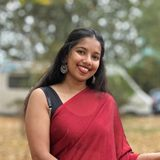
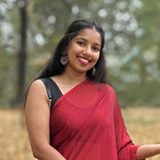
updated optimized images

diff --git a/projects/unified-assistive-communication-system/contributors/index.html b/projects/unified-assistive-communication-system/contributors/index.html
@@ -24,8 +24,8 @@
     <!-- GENERATED CONTRIBUTOR PRELOADS START -->
     <link rel="preload" as="image" href="/projects/shared/assets/images/contributors/inline/anagha-s.jpg?v=16wmlbr" imagesrcset="/projects/shared/assets/images/contributors/inline/anagha-s.jpg?v=16wmlbr" fetchpriority="high" />
     <link rel="preload" as="image" href="/projects/shared/assets/images/contributors/inline/ameer-ts.jpg?v=6yvdtn" imagesrcset="/projects/shared/assets/images/contributors/inline/ameer-ts.jpg?v=6yvdtn" fetchpriority="high" />
-    <link rel="preload" as="image" href="/projects/shared/assets/images/contributors/inline/ananya-ajith.jpg?v=g3amiv" imagesrcset="/projects/shared/assets/images/contributors/inline/ananya-ajith.jpg?v=g3amiv" fetchpriority="high" />
-    <link rel="preload" as="image" href="/projects/shared/assets/images/contributors/inline/sahal-mh.jpg?v=1htgpf8" imagesrcset="/projects/shared/assets/images/contributors/inline/sahal-mh.jpg?v=1htgpf8" fetchpriority="high" />
+    <link rel="preload" as="image" href="/projects/shared/assets/images/contributors/inline/ananya-ajith.jpg?v=1csl9zc" imagesrcset="/projects/shared/assets/images/contributors/inline/ananya-ajith.jpg?v=1csl9zc" fetchpriority="high" />
+    <link rel="preload" as="image" href="/projects/shared/assets/images/contributors/inline/sahal-mh.jpg?v=1g4ohll" imagesrcset="/projects/shared/assets/images/contributors/inline/sahal-mh.jpg?v=1g4ohll" fetchpriority="high" />
     <link rel="preload" as="image" href="/projects/shared/assets/images/contributors/inline/anand-ps.jpg?v=1b4bvdm" imagesrcset="/projects/shared/assets/images/contributors/inline/anand-ps.jpg?v=1b4bvdm" fetchpriority="high" />
     <link rel="preload" as="image" href="/projects/shared/assets/images/contributors/inline/sidharth-s.jpg?v=1sc9tab" imagesrcset="/projects/shared/assets/images/contributors/inline/sidharth-s.jpg?v=1sc9tab" fetchpriority="high" />
     <!-- GENERATED CONTRIBUTOR PRELOADS END -->
@@ -99,7 +99,7 @@
                 <div class="contributor-profile-top">
                     <a class="contributor-profile-primary-link" href="/contributors/ananya-ajith/" aria-label="View profile for Ananya Ajith Kallungal">
                         <div class="contributor-profile-media">
-                            <img class="contributor-profile-photo" src="/projects/shared/assets/images/contributors/ananya-ajith.jpeg" alt="Ananya Ajith Kallungal portrait" width="160" height="160" loading="eager" fetchpriority="high" decoding="async" style="object-fit: cover; object-position: 50% 53%; --contributor-profile-photo-zoom: 2.5; --contributor-profile-photo-focus-x: 50%; --contributor-profile-photo-focus-y: 53%;" />
+                            <img class="contributor-profile-photo" src="/projects/shared/assets/images/contributors/ananya-ajith.jpeg" alt="Ananya Ajith Kallungal portrait" width="160" height="160" loading="eager" fetchpriority="high" decoding="async" style="object-fit: cover; object-position: 41% 49%; --contributor-profile-photo-zoom: 2.1; --contributor-profile-photo-focus-x: 41%; --contributor-profile-photo-focus-y: 49%;" />
                         </div>
                     </a>
                     <div class="contributor-profile-identity">
@@ -118,7 +118,7 @@
                 <div class="contributor-profile-top">
                     <a class="contributor-profile-primary-link" href="/contributors/sahal-mh/" aria-label="View profile for Muhammed Sahal M H">
                         <div class="contributor-profile-media">
-                            <img class="contributor-profile-photo" src="/projects/shared/assets/images/contributors/sahal-mh.jpg" alt="Muhammed Sahal M H portrait" width="160" height="160" loading="eager" fetchpriority="high" decoding="async" style="object-fit: cover; object-position: 45% 37%; --contributor-profile-photo-zoom: 2.5; --contributor-profile-photo-focus-x: 45%; --contributor-profile-photo-focus-y: 37%;" />
+                            <img class="contributor-profile-photo" src="/projects/shared/assets/images/contributors/sahal-mh.jpeg" alt="Muhammed Sahal M H portrait" width="160" height="160" loading="eager" fetchpriority="high" decoding="async" style="object-fit: cover; object-position: 45% 37%; --contributor-profile-photo-zoom: 2.5; --contributor-profile-photo-focus-x: 45%; --contributor-profile-photo-focus-y: 37%;" />
                         </div>
                     </a>
                     <div class="contributor-profile-identity">

diff --git a/projects/unified-assistive-communication-system/index.html b/projects/unified-assistive-communication-system/index.html
@@ -28,8 +28,8 @@
     <!-- GENERATED CONTRIBUTOR PRELOADS START -->
     <link rel="preload" as="image" href="/projects/shared/assets/images/contributors/inline/anagha-s.jpg?v=16wmlbr" imagesrcset="/projects/shared/assets/images/contributors/inline/anagha-s.jpg?v=16wmlbr" fetchpriority="high" />
     <link rel="preload" as="image" href="/projects/shared/assets/images/contributors/inline/ameer-ts.jpg?v=6yvdtn" imagesrcset="/projects/shared/assets/images/contributors/inline/ameer-ts.jpg?v=6yvdtn" fetchpriority="high" />
-    <link rel="preload" as="image" href="/projects/shared/assets/images/contributors/inline/ananya-ajith.jpg?v=g3amiv" imagesrcset="/projects/shared/assets/images/contributors/inline/ananya-ajith.jpg?v=g3amiv" fetchpriority="high" />
-    <link rel="preload" as="image" href="/projects/shared/assets/images/contributors/inline/sahal-mh.jpg?v=1htgpf8" imagesrcset="/projects/shared/assets/images/contributors/inline/sahal-mh.jpg?v=1htgpf8" fetchpriority="high" />
+    <link rel="preload" as="image" href="/projects/shared/assets/images/contributors/inline/ananya-ajith.jpg?v=1csl9zc" imagesrcset="/projects/shared/assets/images/contributors/inline/ananya-ajith.jpg?v=1csl9zc" fetchpriority="high" />
+    <link rel="preload" as="image" href="/projects/shared/assets/images/contributors/inline/sahal-mh.jpg?v=1g4ohll" imagesrcset="/projects/shared/assets/images/contributors/inline/sahal-mh.jpg?v=1g4ohll" fetchpriority="high" />
     <link rel="preload" as="image" href="/projects/shared/assets/images/contributors/inline/anand-ps.jpg?v=1b4bvdm" imagesrcset="/projects/shared/assets/images/contributors/inline/anand-ps.jpg?v=1b4bvdm" fetchpriority="high" />
     <link rel="preload" as="image" href="/projects/shared/assets/images/contributors/inline/sidharth-s.jpg?v=1sc9tab" imagesrcset="/projects/shared/assets/images/contributors/inline/sidharth-s.jpg?v=1sc9tab" fetchpriority="high" />
     <!-- GENERATED CONTRIBUTOR PRELOADS END -->
@@ -159,7 +159,7 @@
             </a>
             <a class="contributors-inline-link" href="/projects/unified-assistive-communication-system/contributors/?member=ananya-ajith" aria-label="View Ananya Ajith Kallungal and project contributors" style="--contributor-enter-delay: calc(2 * var(--contributors-inline-reveal-stagger-ms)); --contributor-stack-index: 3; --contributor-z-index: 4;">
                 <span class="contributors-inline-link-media">
-                    <img class="contributors-inline-photo" src="/projects/shared/assets/images/contributors/inline/ananya-ajith.jpg?v=g3amiv" alt="" aria-hidden="true" width="160" height="160" loading="eager" fetchpriority="high" decoding="async" />
+                    <img class="contributors-inline-photo" src="/projects/shared/assets/images/contributors/inline/ananya-ajith.jpg?v=1csl9zc" alt="" aria-hidden="true" width="160" height="160" loading="eager" fetchpriority="high" decoding="async" />
                 </span>
                 <span class="contributors-inline-tooltip" aria-hidden="true">
                     <span class="contributors-inline-tooltip-name">Ananya Ajith Kallungal</span>
@@ -168,7 +168,7 @@
             </a>
             <a class="contributors-inline-link" href="/projects/unified-assistive-communication-system/contributors/?member=sahal-mh" aria-label="View Muhammed Sahal M H and project contributors" style="--contributor-enter-delay: calc(3 * var(--contributors-inline-reveal-stagger-ms)); --contributor-stack-index: 2; --contributor-z-index: 3;">
                 <span class="contributors-inline-link-media">
-                    <img class="contributors-inline-photo" src="/projects/shared/assets/images/contributors/inline/sahal-mh.jpg?v=1htgpf8" alt="" aria-hidden="true" width="160" height="160" loading="eager" fetchpriority="high" decoding="async" />
+                    <img class="contributors-inline-photo" src="/projects/shared/assets/images/contributors/inline/sahal-mh.jpg?v=1g4ohll" alt="" aria-hidden="true" width="160" height="160" loading="eager" fetchpriority="high" decoding="async" />
                 </span>
                 <span class="contributors-inline-tooltip" aria-hidden="true">
                     <span class="contributors-inline-tooltip-name">Muhammed Sahal M H</span>

diff --git a/contributors/sahal-mh/index.html b/contributors/sahal-mh/index.html
@@ -12,12 +12,12 @@
     <meta property="og:url" content="https://anandps.in/contributors/sahal-mh/" />
     <meta property="og:title" content="Muhammed Sahal M H | Hardware Developer | Anand P S" />
     <meta property="og:description" content="Electrical Engineer with maintenance experience across the manufacturing industry, along with experience in control panel assembly, diagnostics, and substation operations. Proven ability to resolve faults, and ensure reliable electrical system performance. Explore contributed projects, profile links, and portfolio context for Muhammed Sahal M H." />
-    <meta property="og:image" content="https://anandps.in/projects/shared/assets/images/contributors/sahal-mh.jpg" />
+    <meta property="og:image" content="https://anandps.in/projects/shared/assets/images/contributors/sahal-mh.jpeg" />
     <meta property="og:image:alt" content="Muhammed Sahal M H portrait" />
     <meta name="twitter:card" content="summary_large_image" />
     <meta name="twitter:title" content="Muhammed Sahal M H | Hardware Developer | Anand P S" />
     <meta name="twitter:description" content="Electrical Engineer with maintenance experience across the manufacturing industry, along with experience in control panel assembly, diagnostics, and substation operations. Proven ability to resolve faults, and ensure reliable electrical system performance. Explore contributed projects, profile links, and portfolio context for Muhammed Sahal M H." />
-    <meta name="twitter:image" content="https://anandps.in/projects/shared/assets/images/contributors/sahal-mh.jpg" />
+    <meta name="twitter:image" content="https://anandps.in/projects/shared/assets/images/contributors/sahal-mh.jpeg" />
     <meta name="twitter:image:alt" content="Muhammed Sahal M H portrait" />
     <link rel="preconnect" href="https://fonts.googleapis.com" />
     <link rel="preconnect" href="https://fonts.gstatic.com" crossorigin />
@@ -49,7 +49,7 @@
     <div class="contributor-profile-layout">
         <aside class="contributor-profile-visual">
             <div class="contributor-profile-media">
-                <img class="contributor-profile-photo" src="/projects/shared/assets/images/contributors/sahal-mh.jpg" alt="Muhammed Sahal M H portrait" width="220" height="220" loading="eager" fetchpriority="high" decoding="async" style="object-fit: cover; object-position: 45% 37%; --contributor-profile-photo-zoom: 2.5; --contributor-profile-photo-focus-x: 45%; --contributor-profile-photo-focus-y: 37%;" />
+                <img class="contributor-profile-photo" src="/projects/shared/assets/images/contributors/sahal-mh.jpeg" alt="Muhammed Sahal M H portrait" width="220" height="220" loading="eager" fetchpriority="high" decoding="async" style="object-fit: cover; object-position: 45% 37%; --contributor-profile-photo-zoom: 2.5; --contributor-profile-photo-focus-x: 45%; --contributor-profile-photo-focus-y: 37%;" />
             </div>
         </aside>
         <div class="contributor-profile-summary">
@@ -139,7 +139,7 @@ document.addEventListener('click', async (event) => {
   "jobTitle": "Hardware Developer",
   "description": "Electrical Engineer with maintenance experience across the manufacturing industry, along with experience in control panel assembly, diagnostics, and substation operations. Proven ability to resolve faults, and ensure reliable electrical system performance.",
   "url": "https://anandps.in/contributors/sahal-mh/",
-  "image": "https://anandps.in/projects/shared/assets/images/contributors/sahal-mh.jpg",
+  "image": "https://anandps.in/projects/shared/assets/images/contributors/sahal-mh.jpeg",
   "sameAs": [
     "https://www.linkedin.com/in/muhammed-sahal-m-h-391256194",
     "https://github.com/muhammed-sahal-m-h"

diff --git a/contributors/ananya-ajith/index.html b/contributors/ananya-ajith/index.html
@@ -49,7 +49,7 @@
     <div class="contributor-profile-layout">
         <aside class="contributor-profile-visual">
             <div class="contributor-profile-media">
-                <img class="contributor-profile-photo" src="/projects/shared/assets/images/contributors/ananya-ajith.jpeg" alt="Ananya Ajith Kallungal portrait" width="220" height="220" loading="eager" fetchpriority="high" decoding="async" style="object-fit: cover; object-position: 50% 53%; --contributor-profile-photo-zoom: 2.5; --contributor-profile-photo-focus-x: 50%; --contributor-profile-photo-focus-y: 53%;" />
+                <img class="contributor-profile-photo" src="/projects/shared/assets/images/contributors/ananya-ajith.jpeg" alt="Ananya Ajith Kallungal portrait" width="220" height="220" loading="eager" fetchpriority="high" decoding="async" style="object-fit: cover; object-position: 41% 49%; --contributor-profile-photo-zoom: 2.1; --contributor-profile-photo-focus-x: 41%; --contributor-profile-photo-focus-y: 49%;" />
             </div>
         </aside>
         <div class="contributor-profile-summary">
